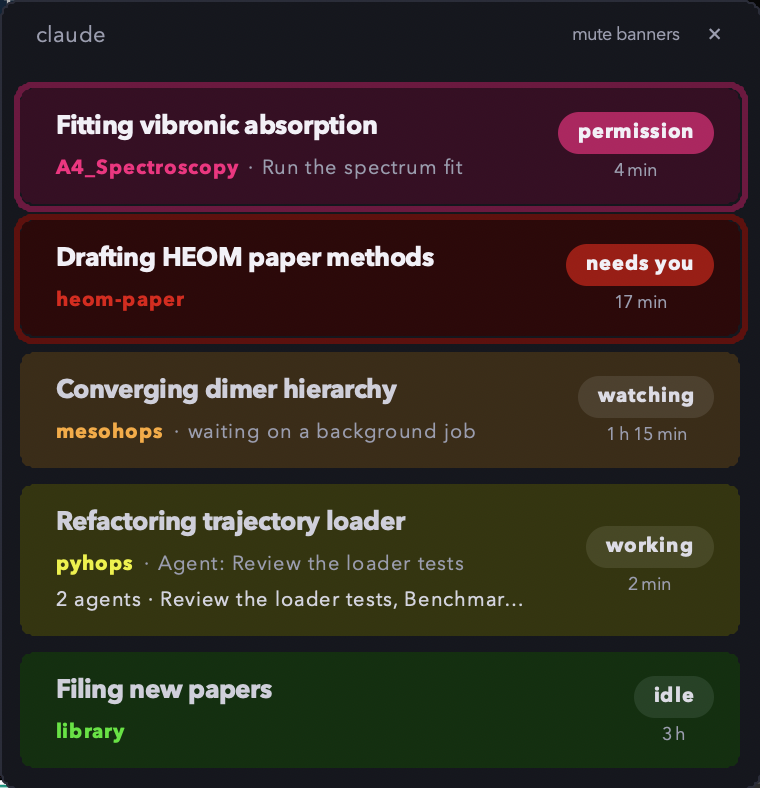
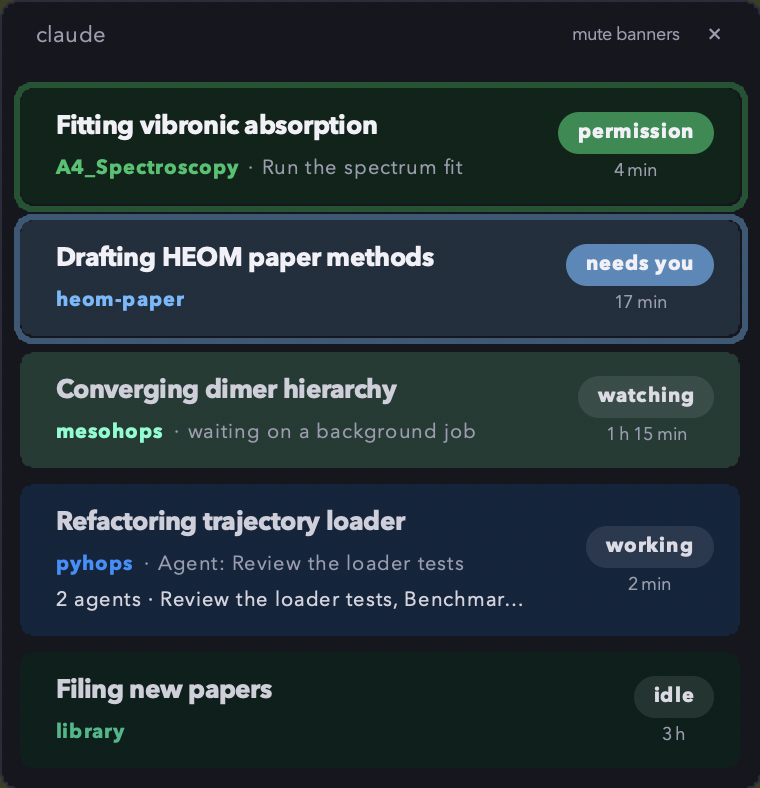
Recolour the calling tab too; calmer README screenshot
macOS pgrep leaves out its own ancestors unless given -a, so /tint scheme
and /tint all skipped the very session that ran them, and its tab kept
its old colour. The README screenshot now uses the ocean scheme.

diff --git a/tests/test_tint.py b/tests/test_tint.py
@@ -136,3 +136,14 @@ def test_every_scheme_keeps_every_card_distinct_in_both_modes():
 
 def test_every_scheme_is_selectable():
     assert set(tint.DARK) == set(w.SCHEME_NAMES)
+
+
+def test_claude_ttys_includes_the_calling_session(monkeypatch):
+    calls = []
+    def fake(cmd, text=True):
+        calls.append(cmd)
+        return "101\n"
+    monkeypatch.setattr(tint.subprocess, "check_output", fake)
+    monkeypatch.setattr(tint, "tty_of_pid", lambda p: "/dev/ttys000")
+    assert tint.claude_ttys() == {"/dev/ttys000"}
+    assert "-a" in calls[0]          # without it, the session running /tint is skipped

diff --git a/scripts/tint.py b/scripts/tint.py
@@ -180,7 +180,9 @@ def headless_claude(pid):
 
 def claude_ttys():
     try:
-        pids = subprocess.check_output(["pgrep", "-x", "claude"], text=True).split()
+        # -a: macOS pgrep skips its own ancestors by default, which would hide
+        # the Claude session that runs this very command.
+        pids = subprocess.check_output(["pgrep", "-a", "-x", "claude"], text=True).split()
     except subprocess.CalledProcessError:
         return set()
     return {t for t in (tty_of_pid(p) for p in pids) if t}
